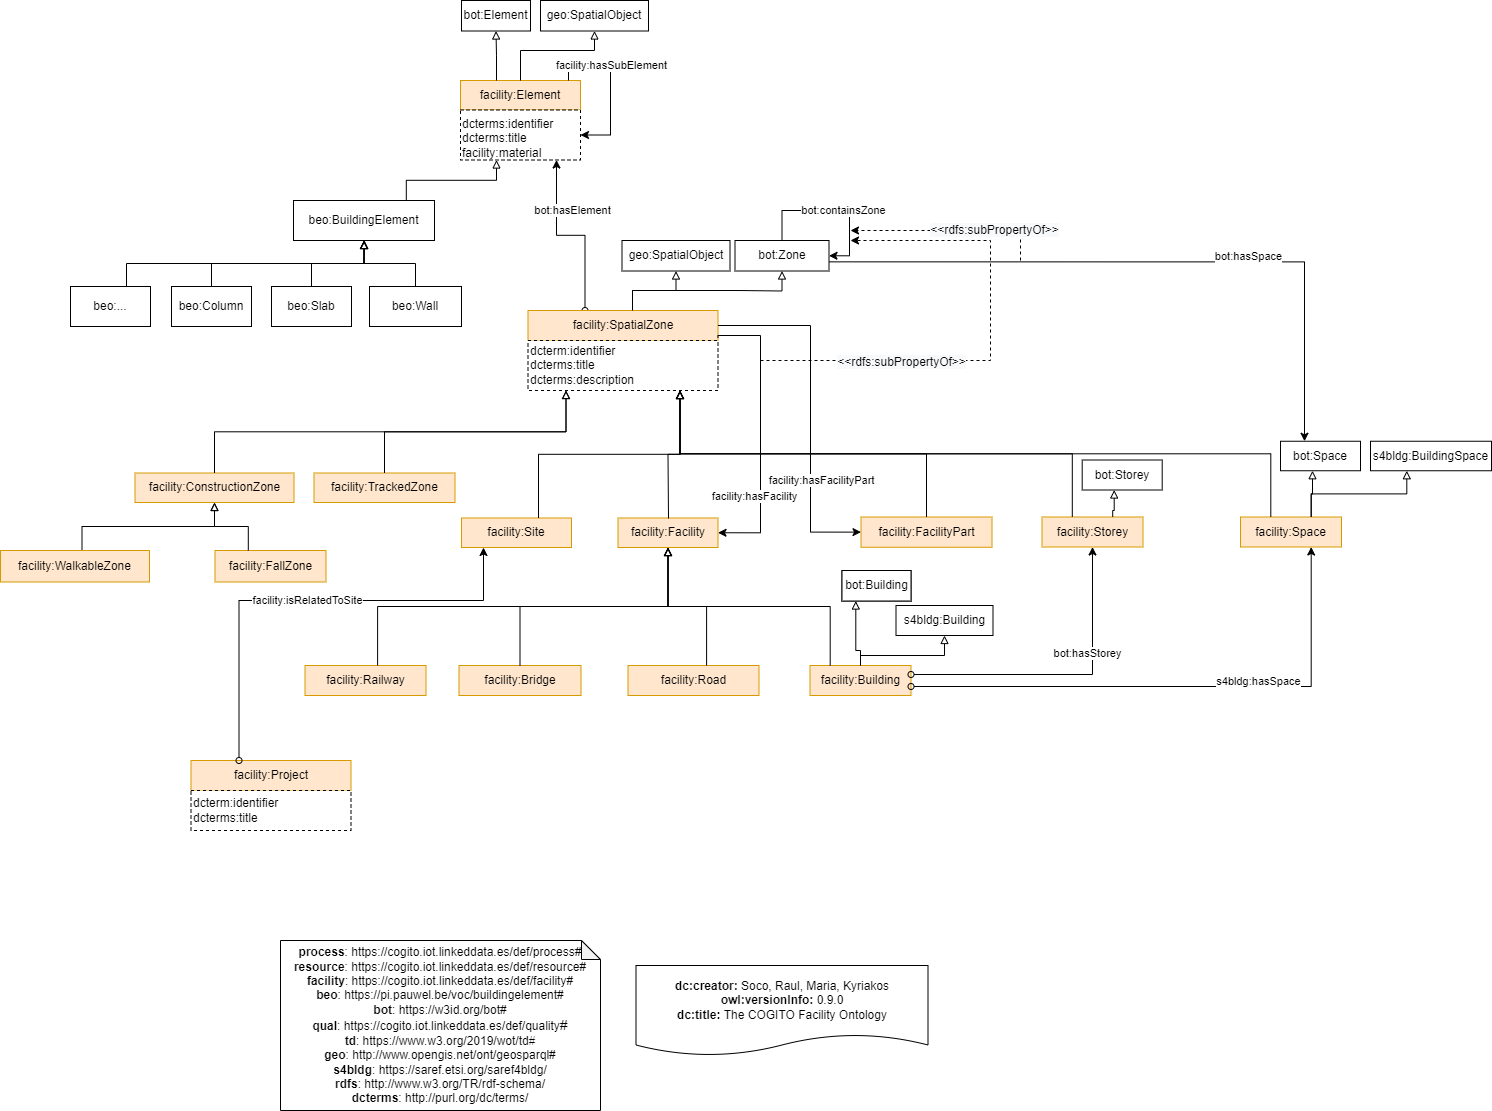
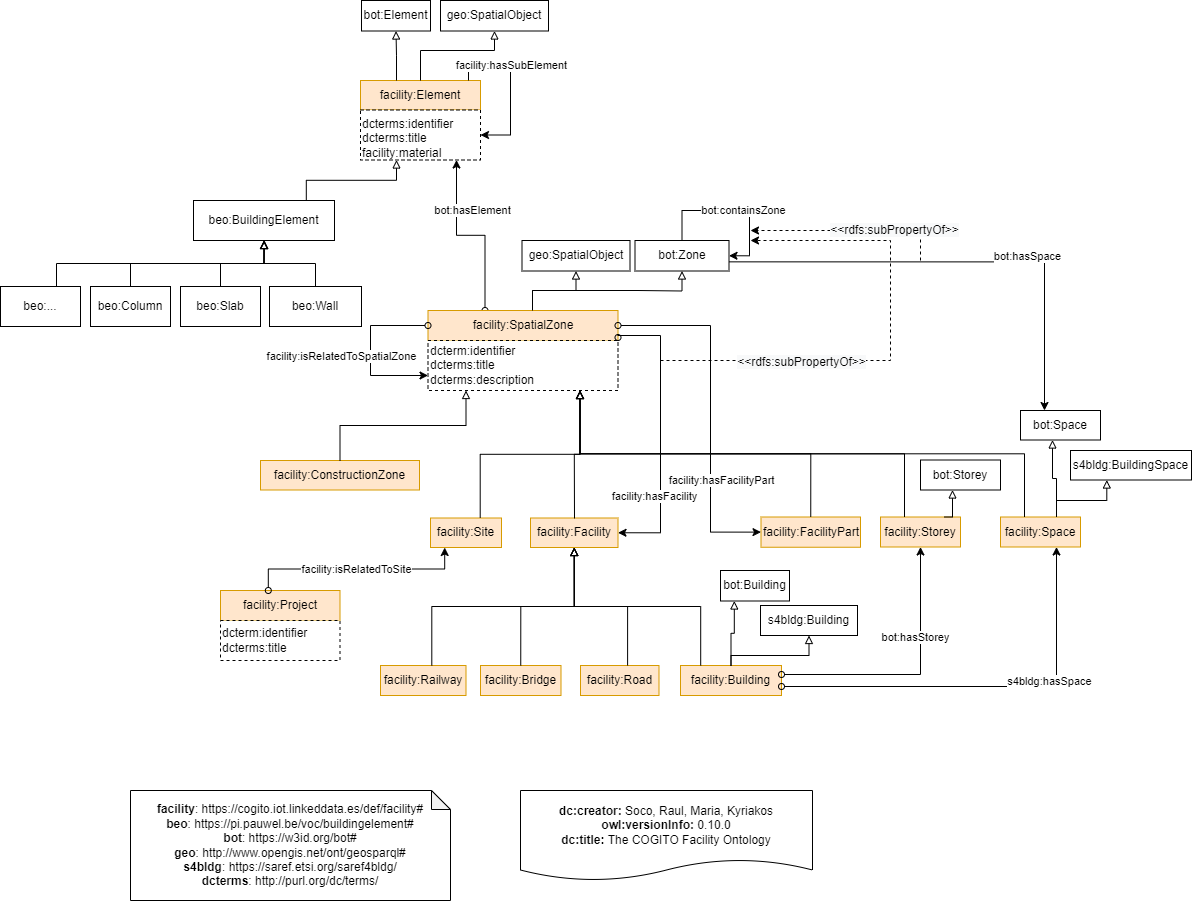
v0.10.0 update
diagram, documentation, code and requirements

diff --git a/documentation/index-en.html b/documentation/index-en.html
@@ -6,7 +6,7 @@
 
 
 <!-- SCHEMA.ORG METADATA -->
-<script type="application/ld+json">{"@context":"https://schema.org","@type":"TechArticle","url":"https://cogito.iot.linkeddata.es/def/facility#","image":"http://vowl.visualdataweb.org/webvowl/#iri=https://cogito.iot.linkeddata.es/def/facility#","name":"Facility Ontology", "headline":"The COGITO Facility ontology aims at modelling facilities in the construction domain.", "datePublished":"Sat Oct 15 14:02:20 CEST 2022", "version":"0.9.0", "license":"http://purl.org/NET/rdflicense/cc-by4.0", "author":[{"@type":"Person","name":"María Poveda Villalón"},{"@type":"Person","name":"Raúl García Castro"},{"@type":"Person","name":"Socorro  Bernardos Galindo"}]}</script>
+<script type="application/ld+json">{"@context":"https://schema.org","@type":"TechArticle","url":"https://cogito.iot.linkeddata.es/def/facility#","image":"http://vowl.visualdataweb.org/webvowl/#iri=https://cogito.iot.linkeddata.es/def/facility#","name":"Facility Ontology", "headline":"The COGITO Facility ontology aims at modelling facilities in the construction domain.", "datePublished":"Fri Jan 13 12:48:30 CET 2023", "version":"0.10.0", "license":"http://purl.org/NET/rdflicense/cc-by4.0", "author":[{"@type":"Person","name":"María Poveda Villalón"},{"@type":"Person","name":"Raúl García Castro"},{"@type":"Person","name":"Socorro  Bernardos Galindo"}]}</script>
 
 <script src="resources/jquery.js"></script> 
 <script src="resources/marked.min.js"></script> 
@@ -61,7 +61,7 @@ $(function(){
 <dt>Latest version:</dt>
 <dd><a href="https://cogito.iot.linkeddata.es/def/facility#">https://cogito.iot.linkeddata.es/def/facility#</a></dd>
 <dt>Revision:</dt>
-<dd>0.9.0</dd>
+<dd>0.10.0</dd>
 <dt>Authors:</dt>
 <dd>María Poveda Villalón</dd><dd>Raúl García Castro</dd><dd>Socorro  Bernardos Galindo</dd>
 
@@ -70,7 +70,7 @@ $(function(){
 
 <dt>Download serialization:</dt><dd><span><a href="ontology.jsonld" target="_blank"><img src="https://img.shields.io/badge/Format-JSON_LD-blue.svg" alt="JSON-LD" /></a> </span><span><a href="ontology.rdf" target="_blank"><img src="https://img.shields.io/badge/Format-RDF/XML-blue.svg" alt="RDF/XML" /></a> </span><span><a href="ontology.nt" target="_blank"><img src="https://img.shields.io/badge/Format-N_Triples-blue.svg" alt="N-Triples" /></a> </span><span><a href="ontology.ttl" target="_blank"><img src="https://img.shields.io/badge/Format-TTL-blue.svg" alt="TTL" /></a> </span></dd><dt>License: </dt><dd><a href="http://purl.org/NET/rdflicense/cc-by4.0" target="_blank"><img src="https://img.shields.io/badge/License-http://purl.org/NET/rdflicense/cc_by4.0-blue.svg" alt="http://purl.org/NET/rdflicense/cc-by4.0" /></a>
 </dd><!-- <dt>Evaluation:</dt><dd><a href="OOPSEvaluation/oopsEval.html#" target="_blank"><img src="https://img.shields.io/badge/Evaluate_with-OOPS! (OntOlogy Pitfall Scanner!)-blue.svg" alt="Evaluate with OOPS!" /></a></dd> --><dt>Cite as:</dt>
-<dd>María Poveda Villalón,Raúl García Castro,Socorro  Bernardos Galindo. Facility Ontology. Revision: 0.9.0.</dd>
+<dd>María Poveda Villalón,Raúl García Castro,Socorro  Bernardos Galindo. Facility Ontology. Revision: 0.10.0.</dd>
 </dl>
 <div>
 	<img src="resources/images/logo.jpg" width="300" alt="">
@@ -204,10 +204,6 @@ This ontology has the following classes and properties.</span>
       <a href="#https://w3id.org/bot#Storey" title="https://w3id.org/bot#Storey">Storey</a>
    </li>
    <li>
-      <a href="#TrackedZone"
-         title="https://cogito.iot.linkeddata.es/def/facility#TrackedZone">Tracked Zone</a>
-   </li>
-   <li>
       <a href="#WalkableZone"
          title="https://cogito.iot.linkeddata.es/def/facility#WalkableZone">Walkable Zone</a>
    </li>
@@ -248,6 +244,10 @@ This ontology has the following classes and properties.</span>
    <li>
       <a href="#isRelatedToSite"
          title="https://cogito.iot.linkeddata.es/def/facility#isRelatedToSite">is related to site</a>
+   </li>
+   <li>
+      <a href="#isRelatedToSapatialZone"
+         title="https://cogito.iot.linkeddata.es/def/facility#isRelatedToSapatialZone">is related to spatial zone</a>
    </li>
 </ul><h4>Data Properties</h4><ul xmlns:xsi="http://www.w3.org/2001/XMLSchema-instance" class="hlist">
    <li>
@@ -363,10 +363,6 @@ This section provides details for each class and property defined by Facility On
       </li>
       <li>
          <a href="#https://w3id.org/bot#Storey" title="https://w3id.org/bot#Storey">Storey</a>
-      </li>
-      <li>
-         <a href="#TrackedZone"
-            title="https://cogito.iot.linkeddata.es/def/facility#TrackedZone">Tracked Zone</a>
       </li>
       <li>
          <a href="#WalkableZone"
@@ -851,8 +847,6 @@ street or highway</span>
                title="https://cogito.iot.linkeddata.es/def/facility#Space">Space</a>
             <sup class="type-c" title="class">c</sup>, <a href="#Storey"
                title="https://cogito.iot.linkeddata.es/def/facility#Storey">Storey</a>
-            <sup class="type-c" title="class">c</sup>, <a href="#TrackedZone"
-               title="https://cogito.iot.linkeddata.es/def/facility#TrackedZone">Tracked Zone</a>
             <sup class="type-c" title="class">c</sup>
          </dd>
          <dt>is in domain of</dt>
@@ -906,25 +900,6 @@ street or highway</span>
          <dd>
             <a href="#Storey"
                title="https://cogito.iot.linkeddata.es/def/facility#Storey">Storey</a>
-            <sup class="type-c" title="class">c</sup>
-         </dd>
-      </dl>
-   </div>
-   <div class="entity" id="TrackedZone">
-      <h3>Tracked Zone<sup class="type-c" title="class">c</sup>
-         <span class="backlink"> back to <a href="#toc">ToC</a> or <a href="#classes">Class ToC</a>
-         </span>
-      </h3>
-      <p>
-         <strong>IRI:</strong> https://cogito.iot.linkeddata.es/def/facility#TrackedZone</p>
-      <div class="comment">
-         <span class="markdown">Something used to represent zones used by the IoT preprocessing module</span>
-      </div>
-      <dl class="description">
-         <dt>has super-classes</dt>
-         <dd>
-            <a href="#SpatialZone"
-               title="https://cogito.iot.linkeddata.es/def/facility#SpatialZone">Spatial Zone</a>
             <sup class="type-c" title="class">c</sup>
          </dd>
       </dl>
@@ -1014,6 +989,10 @@ street or highway</span>
       <li>
          <a href="#isRelatedToSite"
             title="https://cogito.iot.linkeddata.es/def/facility#isRelatedToSite">is related to site</a>
+      </li>
+      <li>
+         <a href="#isRelatedToSapatialZone"
+            title="https://cogito.iot.linkeddata.es/def/facility#isRelatedToSapatialZone">is related to spatial zone</a>
       </li>
    </ul>
    <div class="entity" id="https://w3id.org/bot#containsZone">
@@ -1307,6 +1286,17 @@ street or highway</span>
                <sup class="type-c" title="class">c</sup>
             </dd>
          </dl>
+      </div>
+   </div>
+   <div class="entity" id="isRelatedToSapatialZone">
+      <h3>is related to spatial zone<sup class="type-op" title="object property">op</sup>
+         <span class="backlink"> back to <a href="#toc">ToC</a> or <a href="#objectproperties">Object Property ToC</a>
+         </span>
+      </h3>
+      <p>
+         <strong>IRI:</strong> https://cogito.iot.linkeddata.es/def/facility#isRelatedToSapatialZone</p>
+      <div class="comment">
+         <span class="markdown">A property relating an entity (especially a facility:SpatialZone) to a facility:SpatialZone</span>
       </div>
    </div>
 </div><div xmlns:xsi="http://www.w3.org/2001/XMLSchema-instance" id="dataproperties">
